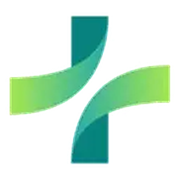
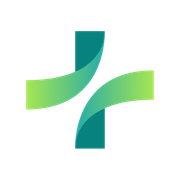
Landings: pulido visual, hero concreto, pie de página ordenado y fuentes propias
- Sin etiquetas sobre los títulos ni frases de relleno en el hero y las
  secciones (detalles que hacían ver la página genérica).
- Título principal y bajada que nombran el problema y el servicio concretos.
- Pie de página reordenado: marca con nombre, botón de WhatsApp, enlaces en
  columnas que entran en el teléfono y contacto con íconos.
- Fuentes alojadas en el sitio con preload (antes: Google Fonts, que
  bloqueaba el primer dibujo de la página).
- robots.txt sin la línea Content-Signal (Lighthouse la marcaba como inválida).
- Logos originales entregados por la responsable (donde correspondía),
  sin deformar, e ícono de Apple regenerado.
- Microinteracciones en botones, foco visible y entrada escalonada del hero.

Claude-Session: https://claude.ai/code/session_01FuLgnjHoiZTXHqrkcEnPGW

Changed region(s): [[0.0278, 0.0833, 0.6111, 0.6667], [0.3889, 0.3333, 0.9444, 0.9167]]

diff --git a/apps/web/src/components/home/contact-form.tsx b/apps/web/src/components/home/contact-form.tsx
@@ -35,5 +35,5 @@ export function ContactForm() {
   };
   const input = (name: keyof Fields, label: string, type = 'text', placeholder = '') => <div className="field"><label htmlFor={name}>{label}</label><input id={name} name={name} type={type} value={form[name]} placeholder={placeholder} min={type === 'number' ? 1 : undefined} aria-invalid={Boolean(errors[name])} aria-describedby={errors[name] ? `${name}-error` : undefined} onChange={e => update(name, e.target.value)} /><span className="field-error" id={`${name}-error`}>{errors[name]}</span></div>;
   const select = (name: 'busqueda' | 'destinatario' | 'actual', label: string) => <div className="field"><label htmlFor={name}>{label}</label><select id={name} name={name} value={form[name]} aria-invalid={Boolean(errors[name])} aria-describedby={errors[name] ? `${name}-error` : undefined} onChange={e => update(name,e.target.value)}><option value="" disabled>Seleccioná una opción</option>{options[name].map(option => <option value={option} key={option}>{option}</option>)}</select><span className="field-error" id={`${name}-error`}>{errors[name]}</span></div>;
-  return <section className="form-section section-pad" id="contacto"><div className="container form-layout"><div className="form-intro reveal"><p className="eyebrow">Empecemos por vos</p><h2>Contanos qué cobertura <em>estás buscando.</em></h2><p>Completá algunos datos y podremos orientarte según tu situación.</p><div className="form-aside"><span className="aside-rule"/><p>Elegir una cobertura médica no tiene por qué ser complicado. Estamos para ayudarte a dar el primer paso.</p></div></div><div className="form-panel reveal">{success ? <div className="form-success" role="status"><CheckCircle2 size={40} strokeWidth={1.5}/><h3>Gracias por contactarnos.</h3><p>Recibimos tu consulta y podremos orientarte sobre las opciones disponibles.</p><button type="button" className="underlined-link" onClick={() => { setSuccess(false); setForm(initial); }}>Hacer otra consulta <ArrowUpRight size={18}/></button></div> : <form onSubmit={submit} noValidate><div className="form-row">{input('nombre','Nombre')}{input('apellido','Apellido')}</div><div className="form-row">{input('telefono','Número de teléfono','tel')}{input('email','Email','email')}</div>{select('busqueda','¿Qué estás buscando?')}{select('destinatario','¿Para quién es la cobertura?')}<div className="form-row">{input('personas','¿Cuántas personas necesitan cobertura?','number')}{select('actual','¿Ya tenés una cobertura actualmente?')}</div><div className="field"><label htmlFor="detalle">Contanos brevemente qué estás buscando <span className="optional">(opcional)</span></label><textarea id="detalle" name="detalle" rows={4} value={form.detalle} onChange={e => update('detalle',e.target.value)} placeholder="Por ejemplo: quiero cambiarme de prepaga, buscar una cobertura para mi familia o conocer otras opciones." /></div>{sendError && <p className="field-error" role="alert">No pudimos enviar tu consulta. Intentá nuevamente o escribinos por WhatsApp.</p>}<button className="button button-dark form-submit" type="submit">Quiero recibir asesoramiento <ArrowUpRight size={18}/></button></form>}<div className="form-other"><span>También podés consultarnos directamente por WhatsApp.</span><WhatsAppAction className="underlined-link" message="Hola, prefiero hacer la consulta por WhatsApp: quiero comparar coberturas." /></div></div></div></section>;
+  return <section className="form-section section-pad" id="contacto"><div className="container form-layout"><div className="form-intro reveal"><h2>Contanos qué cobertura <em>estás buscando.</em></h2><p>Completá algunos datos y podremos orientarte según tu situación.</p></div><div className="form-panel reveal">{success ? <div className="form-success" role="status"><CheckCircle2 size={40} strokeWidth={1.5}/><h3>Gracias por contactarnos.</h3><p>Recibimos tu consulta y podremos orientarte sobre las opciones disponibles.</p><button type="button" className="underlined-link" onClick={() => { setSuccess(false); setForm(initial); }}>Hacer otra consulta <ArrowUpRight size={18}/></button></div> : <form onSubmit={submit} noValidate><div className="form-row">{input('nombre','Nombre')}{input('apellido','Apellido')}</div><div className="form-row">{input('telefono','Número de teléfono','tel')}{input('email','Email','email')}</div>{select('busqueda','¿Qué estás buscando?')}{select('destinatario','¿Para quién es la cobertura?')}<div className="form-row">{input('personas','¿Cuántas personas necesitan cobertura?','number')}{select('actual','¿Ya tenés una cobertura actualmente?')}</div><div className="field"><label htmlFor="detalle">Contanos brevemente qué estás buscando <span className="optional">(opcional)</span></label><textarea id="detalle" name="detalle" rows={4} value={form.detalle} onChange={e => update('detalle',e.target.value)} placeholder="Por ejemplo: quiero cambiarme de prepaga, buscar una cobertura para mi familia o conocer otras opciones." /></div>{sendError && <p className="field-error" role="alert">No pudimos enviar tu consulta. Intentá nuevamente o escribinos por WhatsApp.</p>}<button className="button button-dark form-submit" type="submit">Quiero recibir asesoramiento <ArrowUpRight size={18}/></button></form>}<div className="form-other"><span>También podés consultarnos directamente por WhatsApp.</span><WhatsAppAction className="underlined-link" message="Hola, prefiero hacer la consulta por WhatsApp: quiero comparar coberturas." /></div></div></div></section>;
 }

diff --git a/apps/web/src/components/home/value.tsx b/apps/web/src/components/home/value.tsx
@@ -8,5 +8,5 @@ const benefits = [
   { icon: UsersRound, title: 'Personalización', text: 'Buscamos alternativas teniendo en cuenta tus necesidades y las de tu grupo familiar.' },
 ];
 export function Value() {
-  return <><section className="value-section section-pad"><div className="container"><div className="value-top reveal"><p className="eyebrow">Elegir con confianza</p><h2>Encontrá opciones de cobertura <em>en un solo lugar.</em></h2><p>Cientos de prestadoras y opciones para comparar. Te acompañamos para que puedas conocer alternativas con información más clara.</p></div><div className="value-bottom"><div className="value-mark"><ShieldPlus size={32} strokeWidth={1.25}/><span>Una búsqueda más simple,{' '}<br />una elección más informada.</span></div><div className="value-list"><span>Obras sociales</span><span>Prepagas</span><span>Coberturas individuales</span><span>Coberturas familiares</span><span>Asesoramiento personalizado</span></div></div></div></section><section className="benefits-section section-pad"><div className="container"><div className="section-heading reveal"><p className="eyebrow">Por qué elegirnos</p><h2>Más opciones. Más información.{' '}<br /><em>Una decisión más simple.</em></h2></div><div className="benefit-grid">{benefits.map(({ icon: Icon, title, text }) => <article className="benefit reveal" key={title}><Icon size={28} strokeWidth={1.4}/><h3>{title}</h3><p>{text}</p></article>)}</div><div className="benefit-tail"><p>Estamos para ayudarte a encontrar un camino más claro.</p><WhatsAppAction className="underlined-link" /></div></div></section><section className="coverage-section section-pad" id="coberturas"><div className="container coverage-layout"><div className="reveal"><p className="eyebrow">Coberturas</p><h2>Encontrá la cobertura que <em>necesitás.</em></h2><p className="section-lead">Contanos qué estás buscando y te orientamos entre las alternativas disponibles.</p><a href="#contacto" className="button button-dark">Quiero asesorarme <ArrowUpRight size={18}/></a></div><div className="coverage-list reveal">{['Obras sociales','Prepagas','Coberturas individuales','Coberturas familiares'].map((item, index) => <a href="#contacto" key={item}><span className="coverage-index">0{index + 1}</span><span>{item}</span><ArrowUpRight size={20} strokeWidth={1.5}/></a>)}</div></div></section></>;
+  return <><section className="value-section section-pad"><div className="container"><div className="value-top reveal"><h2>Encontrá opciones de cobertura <em>en un solo lugar.</em></h2><p>Te acompañamos a comparar alternativas con información clara: qué cubre cada plan, qué cartilla tiene cerca tuyo y qué pasa con tus aportes.</p></div><div className="value-bottom"><div className="value-mark"><ShieldPlus size={32} strokeWidth={1.25}/><span>Una búsqueda más simple,{' '}<br />una elección más informada.</span></div><div className="value-list"><span>Obras sociales</span><span>Prepagas</span><span>Coberturas individuales</span><span>Coberturas familiares</span><span>Asesoramiento personalizado</span></div></div></div></section><section className="benefits-section section-pad"><div className="container"><div className="section-heading reveal"><h2>Más opciones. Más información.{' '}<br /><em>Una decisión más simple.</em></h2></div><div className="benefit-grid">{benefits.map(({ icon: Icon, title, text }) => <article className="benefit reveal" key={title}><Icon size={28} strokeWidth={1.4}/><h3>{title}</h3><p>{text}</p></article>)}</div><div className="benefit-tail"><WhatsAppAction className="underlined-link" /></div></div></section><section className="coverage-section section-pad" id="coberturas"><div className="container coverage-layout"><div className="reveal"><h2>Encontrá la cobertura que <em>necesitás.</em></h2><p className="section-lead">Contanos qué estás buscando y te orientamos entre las alternativas disponibles.</p><a href="#contacto" className="button button-dark">Quiero asesorarme <ArrowUpRight size={18}/></a></div><div className="coverage-list reveal">{['Obras sociales','Prepagas','Coberturas individuales','Coberturas familiares'].map((item, index) => <a href="#contacto" key={item}><span className="coverage-index">0{index + 1}</span><span>{item}</span><ArrowUpRight size={20} strokeWidth={1.5}/></a>)}</div></div></section></>;
 }

diff --git a/apps/web/src/components/home/story.tsx b/apps/web/src/components/home/story.tsx
@@ -1,4 +1,4 @@
 import { ArrowUpRight, Check, Search, MessagesSquare } from 'lucide-react';
 export function Story() {
-  return <><section className="steps-section section-pad" id="como-funciona"><div className="container"><div className="section-heading reveal"><p className="eyebrow">Cómo funciona</p><h2>Encontrar tu cobertura <em>puede ser más simple.</em></h2></div><div className="steps-grid">{[{icon:MessagesSquare,title:'Contanos qué necesitás.',text:'Compartí tu situación y lo que buscás en una cobertura.'},{icon:Search,title:'Analizamos las opciones disponibles.',text:'Exploramos alternativas de obras sociales y prepagas.'},{icon:Check,title:'Te ayudamos a conocer las alternativas.',text:'Recibí orientación para comparar y decidir con más claridad.'}].map(({icon:Icon,title,text})=><div className="step reveal" key={title}><div className="step-icon"><Icon size={22} strokeWidth={1.5}/></div><h3>{title}</h3><p>{text}</p></div>)}</div></div></section><section className="family-section"><div className="family-image"><img src="/img/asesoramiento-cobertura.webp" alt="Madre e hijo compartiendo un momento al aire libre" width="1024" height="768" loading="lazy"/></div><div className="family-content reveal"><p className="eyebrow">Para quienes más querés</p><h2>Una cobertura pensada para vos <em>y los tuyos.</em></h2><p>Si necesitás una cobertura para varias personas, podemos ayudarte a encontrar alternativas que contemplen las necesidades de tu grupo familiar.</p><a className="underlined-link" href="#contacto">Consultar opciones para mi familia <ArrowUpRight size={18}/></a></div></section><section className="savings-section section-pad"><div className="container savings-layout reveal"><div><p className="eyebrow">Elegir también es comparar</p><h2>¿Estás buscando una alternativa <em>más conveniente?</em></h2></div><div><p>Comparar distintas alternativas de cobertura puede ayudarte a conocer opciones, descuentos y beneficios disponibles según tu situación.</p><p>Conocé opciones y beneficios disponibles según tu situación.</p><a className="button button-dark" href="#contacto">Quiero conocer mis opciones <ArrowUpRight size={18}/></a></div></div></section></>;
+  return <><section className="steps-section section-pad" id="como-funciona"><div className="container"><div className="section-heading reveal"><h2>Encontrar tu cobertura <em>puede ser más simple.</em></h2></div><div className="steps-grid">{[{icon:MessagesSquare,title:'Contanos qué necesitás.',text:'Compartí tu situación y lo que buscás en una cobertura.'},{icon:Search,title:'Analizamos las opciones disponibles.',text:'Exploramos alternativas de obras sociales y prepagas.'},{icon:Check,title:'Te ayudamos a conocer las alternativas.',text:'Recibí orientación para comparar y decidir con más claridad.'}].map(({icon:Icon,title,text})=><div className="step reveal" key={title}><div className="step-icon"><Icon size={22} strokeWidth={1.5}/></div><h3>{title}</h3><p>{text}</p></div>)}</div></div></section><section className="family-section"><div className="family-image"><img src="/img/asesoramiento-cobertura.webp" alt="Madre e hijo compartiendo un momento al aire libre" width="1024" height="768" loading="lazy"/></div><div className="family-content reveal"><h2>Una cobertura pensada para vos <em>y los tuyos.</em></h2><p>Si necesitás una cobertura para varias personas, podemos ayudarte a encontrar alternativas que contemplen las necesidades de tu grupo familiar.</p><a className="underlined-link" href="#contacto">Consultar opciones para mi familia <ArrowUpRight size={18}/></a></div></section><section className="savings-section section-pad"><div className="container savings-layout reveal"><div><h2>¿Estás buscando una alternativa <em>más conveniente?</em></h2></div><div><p>Comparar distintas alternativas de cobertura puede ayudarte a conocer opciones, descuentos y beneficios disponibles según tu situación.</p><p>Conocé opciones y beneficios disponibles según tu situación.</p><a className="button button-dark" href="#contacto">Quiero conocer mis opciones <ArrowUpRight size={18}/></a></div></div></section></>;
 }

diff --git a/apps/web/src/styles/fuentes.css b/apps/web/src/styles/fuentes.css
@@ -1,0 +1,81 @@
+/* Fuentes alojadas en el propio sitio (antes: Google Fonts). Generado por fuentes.py. */
+@font-face {
+  font-family: 'Manrope';
+  font-style: normal;
+  font-weight: 400;
+  font-display: swap;
+  src: url('/fonts/manrope-normal-latin-ext-59b5f9.woff2') format('woff2');
+  unicode-range: U+0100-02BA, U+02BD-02C5, U+02C7-02CC, U+02CE-02D7, U+02DD-02FF, U+0304, U+0308, U+0329, U+1D00-1DBF, U+1E00-1E9F, U+1EF2-1EFF, U+2020, U+20A0-20AB, U+20AD-20C4, U+2113, U+2C60-2C7F, U+A720-A7FF;
+}
+@font-face {
+  font-family: 'Manrope';
+  font-style: normal;
+  font-weight: 400;
+  font-display: swap;
+  src: url('/fonts/manrope-normal-latin-58ee19.woff2') format('woff2');
+  unicode-range: U+0000-00FF, U+0131, U+0152-0153, U+02BB-02BC, U+02C6, U+02DA, U+02DC, U+0304, U+0308, U+0329, U+2000-206F, U+20AC, U+2122, U+2191, U+2193, U+2212, U+2215, U+FEFF, U+FFFD;
+}
+@font-face {
+  font-family: 'Manrope';
+  font-style: normal;
+  font-weight: 500;
+  font-display: swap;
+  src: url('/fonts/manrope-normal-latin-ext-59b5f9.woff2') format('woff2');
+  unicode-range: U+0100-02BA, U+02BD-02C5, U+02C7-02CC, U+02CE-02D7, U+02DD-02FF, U+0304, U+0308, U+0329, U+1D00-1DBF, U+1E00-1E9F, U+1EF2-1EFF, U+2020, U+20A0-20AB, U+20AD-20C4, U+2113, U+2C60-2C7F, U+A720-A7FF;
+}
+@font-face {
+  font-family: 'Manrope';
+  font-style: normal;
+  font-weight: 500;
+  font-display: swap;
+  src: url('/fonts/manrope-normal-latin-58ee19.woff2') format('woff2');
+  unicode-range: U+0000-00FF, U+0131, U+0152-0153, U+02BB-02BC, U+02C6, U+02DA, U+02DC, U+0304, U+0308, U+0329, U+2000-206F, U+20AC, U+2122, U+2191, U+2193, U+2212, U+2215, U+FEFF, U+FFFD;
+}
+@font-face {
+  font-family: 'Manrope';
+  font-style: normal;
+  font-weight: 600;
+  font-display: swap;
+  src: url('/fonts/manrope-normal-latin-ext-59b5f9.woff2') format('woff2');
+  unicode-range: U+0100-02BA, U+02BD-02C5, U+02C7-02CC, U+02CE-02D7, U+02DD-02FF, U+0304, U+0308, U+0329, U+1D00-1DBF, U+1E00-1E9F, U+1EF2-1EFF, U+2020, U+20A0-20AB, U+20AD-20C4, U+2113, U+2C60-2C7F, U+A720-A7FF;
+}
+@font-face {
+  font-family: 'Manrope';
+  font-style: normal;
+  font-weight: 600;
+  font-display: swap;
+  src: url('/fonts/manrope-normal-latin-58ee19.woff2') format('woff2');
+  unicode-range: U+0000-00FF, U+0131, U+0152-0153, U+02BB-02BC, U+02C6, U+02DA, U+02DC, U+0304, U+0308, U+0329, U+2000-206F, U+20AC, U+2122, U+2191, U+2193, U+2212, U+2215, U+FEFF, U+FFFD;
+}
+@font-face {
+  font-family: 'Manrope';
+  font-style: normal;
+  font-weight: 700;
+  font-display: swap;
+  src: url('/fonts/manrope-normal-latin-ext-59b5f9.woff2') format('woff2');
+  unicode-range: U+0100-02BA, U+02BD-02C5, U+02C7-02CC, U+02CE-02D7, U+02DD-02FF, U+0304, U+0308, U+0329, U+1D00-1DBF, U+1E00-1E9F, U+1EF2-1EFF, U+2020, U+20A0-20AB, U+20AD-20C4, U+2113, U+2C60-2C7F, U+A720-A7FF;
+}
+@font-face {
+  font-family: 'Manrope';
+  font-style: normal;
+  font-weight: 700;
+  font-display: swap;
+  src: url('/fonts/manrope-normal-latin-58ee19.woff2') format('woff2');
+  unicode-range: U+0000-00FF, U+0131, U+0152-0153, U+02BB-02BC, U+02C6, U+02DA, U+02DC, U+0304, U+0308, U+0329, U+2000-206F, U+20AC, U+2122, U+2191, U+2193, U+2212, U+2215, U+FEFF, U+FFFD;
+}
+@font-face {
+  font-family: 'Manrope';
+  font-style: normal;
+  font-weight: 800;
+  font-display: swap;
+  src: url('/fonts/manrope-normal-latin-ext-59b5f9.woff2') format('woff2');
+  unicode-range: U+0100-02BA, U+02BD-02C5, U+02C7-02CC, U+02CE-02D7, U+02DD-02FF, U+0304, U+0308, U+0329, U+1D00-1DBF, U+1E00-1E9F, U+1EF2-1EFF, U+2020, U+20A0-20AB, U+20AD-20C4, U+2113, U+2C60-2C7F, U+A720-A7FF;
+}
+@font-face {
+  font-family: 'Manrope';
+  font-style: normal;
+  font-weight: 800;
+  font-display: swap;
+  src: url('/fonts/manrope-normal-latin-58ee19.woff2') format('woff2');
+  unicode-range: U+0000-00FF, U+0131, U+0152-0153, U+02BB-02BC, U+02C6, U+02DA, U+02DC, U+0304, U+0308, U+0329, U+2000-206F, U+20AC, U+2122, U+2191, U+2193, U+2212, U+2215, U+FEFF, U+FFFD;
+}

diff --git a/apps/web/src/components/site-footer.tsx b/apps/web/src/components/site-footer.tsx
@@ -1,7 +1,42 @@
 import { Link } from 'react-router';
+import { Facebook, Instagram, Mail, Phone } from 'lucide-react';
 import { WhatsAppAction } from '@/components/whatsapp-action';
-import { EMAIL, FIRM_NAME, LOGO_URL, PHONE, PHONE_URL, SOCIAL_LINKS } from '@/constants/brand';
+import { EMAIL, FACEBOOK_URL, FIRM_NAME, INSTAGRAM_HANDLE, INSTAGRAM_URL, LOGO_URL, PHONE, PHONE_URL } from '@/constants/brand';
 
 export function SiteFooter() {
-  return <footer className="site-footer"><div className="container footer-main"><div className="footer-brand"><a href="/#inicio" className="brand"><img src={LOGO_URL} alt={`Logo de ${FIRM_NAME}`} width="50" height="50" loading="lazy"/><span>Compara <strong>Tu Obra Social</strong></span></a><p>Opciones de obras sociales y prepagas con asesoramiento personalizado en CABA y el AMBA.</p></div><div className="footer-links"><span>Explorá</span><a href="/#inicio">Inicio</a><Link to="/prepagas">Prepagas</Link><Link to="/obras-sociales">Obras sociales</Link><Link to="/guias/cotizador-de-aportes">Cotizador de aportes</Link><Link to="/guias">Guías</Link><a href="/#preguntas">Preguntas frecuentes</a></div><div className="footer-contact"><span>Hablemos</span><p>Tu próxima cobertura empieza con una conversación.</p><WhatsAppAction className="underlined-link" />{PHONE_URL && <a href={PHONE_URL}>{PHONE}</a>}{EMAIL && <a href={`mailto:${EMAIL}`}>{EMAIL}</a>}{SOCIAL_LINKS.map(link => <a key={link.url} href={link.url} target="_blank" rel="noopener noreferrer">{link.label}</a>)}</div></div><div className="container footer-bottom"><span>© {new Date().getFullYear()} {FIRM_NAME}.</span><span>Una elección con más claridad.</span></div></footer>;
+  return (
+    <footer className="site-footer">
+      <div className="container footer-main">
+        <div className="footer-brand">
+          <a href="/#inicio" className="brand footer-logo"><img src={LOGO_URL} alt="" width="240" height="222" loading="lazy" /><span>Compara <strong>Tu Obra Social</strong></span></a>
+          <p>Prepagas y obras sociales comparadas con un asesor, en CABA y el AMBA.</p>
+          <WhatsAppAction className="footer-cta" label="Escribinos por WhatsApp" />
+        </div>
+        <nav className="footer-links" aria-label="Coberturas">
+          <h3>Coberturas</h3>
+          <Link to="/prepagas">Prepagas</Link>
+          <Link to="/obras-sociales">Obras sociales</Link>
+          <Link to="/guias/cotizador-de-aportes">Cotizador de aportes</Link>
+          <Link to="/guias">Guías</Link>
+        </nav>
+        <nav className="footer-links" aria-label="Ayuda">
+          <h3>Ayuda</h3>
+          <a href="/#como-funciona">Cómo funciona</a>
+          <a href="/#preguntas">Preguntas frecuentes</a>
+          <a href="/#contacto">Hacer una consulta</a>
+        </nav>
+        <div className="footer-contact">
+          <h3>Contacto</h3>
+          {PHONE_URL && <a href={PHONE_URL}><Phone size={16} strokeWidth={1.6} aria-hidden="true" /> {PHONE}</a>}
+          {EMAIL && <a href={`mailto:${EMAIL}`}><Mail size={16} strokeWidth={1.6} aria-hidden="true" /> {EMAIL}</a>}
+          {INSTAGRAM_URL && <a href={INSTAGRAM_URL} target="_blank" rel="noopener noreferrer"><Instagram size={16} strokeWidth={1.6} aria-hidden="true" /> {INSTAGRAM_HANDLE || 'Instagram'}</a>}
+          {FACEBOOK_URL && <a href={FACEBOOK_URL} target="_blank" rel="noopener noreferrer"><Facebook size={16} strokeWidth={1.6} aria-hidden="true" /> Facebook</a>}
+        </div>
+      </div>
+      <div className="container footer-bottom">
+        <span>© {new Date().getFullYear()} {FIRM_NAME}</span>
+        <a href="#inicio" className="footer-top">Volver arriba ↑</a>
+      </div>
+    </footer>
+  );
 }

diff --git a/apps/web/src/styles/pulido.css b/apps/web/src/styles/pulido.css
@@ -1,0 +1,47 @@
+/* Pulido visual del 09/11/2026: sin etiquetas sobre los títulos, hero concreto,
+   pie de página ordenado, microinteracciones y entrada escalonada del hero. */
+
+::selection { background: #daf1de; color: #0b2b26; }
+
+/* Hero: entrada escalonada */
+.hero-copy > * { animation: entrada .7s cubic-bezier(.2,.7,.2,1) both; }
+.hero-copy > :nth-child(2) { animation-delay: .08s; }
+.hero-copy > :nth-child(3) { animation-delay: .16s; }
+@keyframes entrada { from { opacity: 0; transform: translateY(14px); } to { opacity: 1; transform: none; } }
+.hero-visual img { transition: transform 1.2s cubic-bezier(.2,.7,.2,1); }
+.hero-visual:hover img { transform: scale(1.02); }
+
+/* Botones y foco */
+.button { transition: transform .2s ease, box-shadow .2s ease, background-color .2s ease; }
+.button:hover { transform: translateY(-1px); box-shadow: 0 10px 24px rgba(11, 43, 38, .14); }
+a:focus-visible, button:focus-visible, summary:focus-visible { outline: 2px solid #235347; outline-offset: 3px; border-radius: 4px; }
+
+/* Pie de página */
+.site-footer { background: #f5faf6; border-top: 1px solid #d5e6da; padding-top: 80px; }
+.footer-main { grid-template-columns: 1.5fr .9fr .9fr 1.5fr; gap: 48px; padding-bottom: 64px; }
+.footer-logo img { width: 54px; height: auto; }
+.footer-logo span { font-size: 16px; }
+.footer-brand p { max-width: 330px; font-size: 15px; line-height: 1.65; color: #3f5f55; margin: 22px 0 24px; }
+.footer-cta { display: inline-flex; align-items: center; gap: 10px; padding: 13px 22px; border-radius: 999px; background: #0b2b26; color: #daf1de; font-size: 14px; font-weight: 700; transition: transform .2s ease, background-color .2s ease; }
+.footer-cta:hover { background: #235347; transform: translateY(-1px); }
+.footer-links, .footer-contact { gap: 4px; font-size: 15px; }
+.footer-links h3, .footer-contact h3 { font-size: 15px; font-weight: 800; color: #0b2b26; margin: 0 0 12px; }
+.footer-links a, .footer-contact a { display: inline-flex; align-items: center; gap: 12px; min-height: 36px; color: #2f4a42; }
+.footer-links a:hover, .footer-contact a:hover { color: #0b2b26; }
+.footer-contact a { white-space: nowrap; }
+.footer-contact svg { color: #4e856b; flex: none; }
+.footer-bottom { font-size: 13px; color: #587268; padding-right: 76px; }
+.footer-top:hover { color: #0b2b26; }
+
+@media (max-width: 640px) {
+  .footer-main { grid-template-columns: 1fr 1fr; gap: 40px 22px; padding-bottom: 44px; }
+  .footer-brand, .footer-contact { grid-column: 1 / -1; }
+  .footer-links a, .footer-contact a { min-height: 42px; }
+  .footer-links a { white-space: nowrap; font-size: 14px; }
+  .footer-contact a { white-space: normal; overflow-wrap: anywhere; }
+  .footer-bottom { flex-direction: column; align-items: flex-start; gap: 6px; font-size: 12px; }
+}
+
+/* Logo original (proporción 1,08): sin forzar un cuadrado */
+.brand img { width: 46px; height: auto; object-fit: contain; }
+@media (max-width: 640px) { .brand img { width: 40px; height: auto; } }

diff --git a/apps/web/src/components/home/faq.tsx b/apps/web/src/components/home/faq.tsx
@@ -9,5 +9,5 @@ const faqs = [
   ['¿El asesoramiento tiene algún costo?', 'Esta información estará disponible próximamente. Consultanos para conocer las condiciones del asesoramiento.'],
 ];
 export function Faq() {
-  return <><section className="faq-section section-pad" id="preguntas"><div className="container faq-layout"><div className="reveal"><p className="eyebrow">Preguntas frecuentes</p><h2>Respuestas claras para <em>elegir mejor.</em></h2><p className="section-lead">Si tenés otra pregunta, estamos para escucharte.</p><WhatsAppAction className="underlined-link" /></div><div className="faq-items reveal">{faqs.map(([question,answer])=><details key={question}><summary><span>{question}</span><Plus size={20} strokeWidth={1.6}/></summary><p>{answer}</p></details>)}</div></div></section><section className="final-cta"><div className="container final-cta-inner reveal"><div><p className="eyebrow">El próximo paso es más simple de lo que pensás</p><h2>Encontrá una cobertura que <em>se adapte a vos.</em></h2><p>Contanos qué necesitás y te ayudamos a conocer las alternativas disponibles.</p></div><div className="final-actions"><a className="button button-light" href="#contacto">Quiero asesorarme <ArrowUpRight size={18}/></a><WhatsAppAction className="button button-whatsapp" message="Hola, quiero que me ayuden a encontrar una cobertura que se adapte a mí." /></div></div></section></>;
+  return <><section className="faq-section section-pad" id="preguntas"><div className="container faq-layout"><div className="reveal"><h2>Respuestas claras para <em>elegir mejor.</em></h2><p className="section-lead">Si tenés otra pregunta, estamos para escucharte.</p><WhatsAppAction className="underlined-link" /></div><div className="faq-items reveal">{faqs.map(([question,answer])=><details key={question}><summary><span>{question}</span><Plus size={20} strokeWidth={1.6}/></summary><p>{answer}</p></details>)}</div></div></section><section className="final-cta"><div className="container final-cta-inner reveal"><div><h2>Encontrá una cobertura que <em>se adapte a vos.</em></h2><p>Contanos qué necesitás y te ayudamos a conocer las alternativas disponibles.</p></div><div className="final-actions"><a className="button button-light" href="#contacto">Quiero asesorarme <ArrowUpRight size={18}/></a><WhatsAppAction className="button button-whatsapp" message="Hola, quiero que me ayuden a encontrar una cobertura que se adapte a mí." /></div></div></section></>;
 }

diff --git a/apps/web/src/components/home/hero.tsx b/apps/web/src/components/home/hero.tsx
@@ -2,5 +2,5 @@ import { ArrowUpRight } from 'lucide-react';
 import { WhatsAppAction } from '@/components/whatsapp-action';
 
 export function Hero() {
-  return <section className="hero" id="inicio"><div className="hero-glow" aria-hidden="true" /><div className="hero-inner"><div className="hero-copy reveal"><p className="eyebrow"><span className="eyebrow-line" /> Tu bienestar empieza con una buena elección</p><h1>Encontrá la cobertura médica que mejor se adapta a vos<span className="period">.</span></h1><p className="hero-description">Comparamos opciones de obras sociales y prepagas para ayudarte a encontrar una cobertura acorde a tus necesidades y las de tu familia.</p><div className="hero-buttons"><a className="button button-dark" href="#contacto">Quiero encontrar mi cobertura <ArrowUpRight size={19} /></a><WhatsAppAction className="button button-whatsapp" message="Hola, vi la web y quiero comparar coberturas para encontrar la mejor opción." /></div><p className="hero-note">Obras sociales y prepagas en un solo lugar.</p></div><div className="hero-visual reveal"><img src="/img/familia-cobertura.webp" alt="Familia caminando junta por un parque arbolado" width="1024" height="768" fetchPriority="high" /><div className="hero-visual-caption"><span>Más claridad para elegir.</span><span>Más tranquilidad para vivir.</span></div></div></div><div className="hero-bottom"><span>Una decisión importante, acompañada de principio a fin.</span><a href="#coberturas">Explorar coberturas <span aria-hidden="true">↓</span></a></div></section>;
+  return <section className="hero" id="inicio"><div className="hero-glow" aria-hidden="true" /><div className="hero-inner"><div className="hero-copy reveal"><h1>Compará prepagas y obras sociales con un asesor<span className="period">.</span></h1><p className="hero-description">Te mostramos las opciones según tu edad, tu zona, tu familia y tus aportes, para que elijas sabiendo qué cubre cada plan.</p><div className="hero-buttons"><a className="button button-dark" href="#contacto">Quiero encontrar mi cobertura <ArrowUpRight size={19} /></a><WhatsAppAction className="button button-whatsapp" message="Hola, vi la web y quiero comparar coberturas para encontrar la mejor opción." /></div></div><div className="hero-visual reveal"><img src="/img/familia-cobertura.webp" alt="Familia caminando junta por un parque arbolado" width="1024" height="768" fetchPriority="high" /></div></div></section>;
 }

diff --git a/apps/web/src/root.tsx b/apps/web/src/root.tsx
@@ -13,6 +13,9 @@ import stylesheet from '@/index.css?url';
 import articulosStylesheet from '@/styles/articulos.css?url';
 // Ajustes del 21/10 (CTA por sección, WhatsApp, nombre de la firma). Va último para prevalecer.
 import ajustesStylesheet from '@/styles/ajustes.css?url';
+// Fuentes propias (sin Google Fonts) y pulido visual del 09/11. Van al final para prevalecer.
+import fuentesStylesheet from '@/styles/fuentes.css?url';
+import pulidoStylesheet from '@/styles/pulido.css?url';
 import { publicOrigin } from '@/lib/site-origin.server';
 import { VERIFICATION } from '@/constants/brand';
 import { HorizonsPreviewScripts } from './horizons-preview-scripts';
@@ -39,18 +42,11 @@ export const links: Route.LinksFunction = () => [
 	{ rel: 'stylesheet', href: stylesheet },
 	{ rel: 'stylesheet', href: articulosStylesheet },
 	{ rel: 'stylesheet', href: ajustesStylesheet },
+	{ rel: 'preload', href: '/fonts/manrope-normal-latin-58ee19.woff2', as: 'font', type: 'font/woff2', crossOrigin: 'anonymous' },
+	{ rel: 'stylesheet', href: fuentesStylesheet },
+	{ rel: 'stylesheet', href: pulidoStylesheet },
 	{ rel: 'icon', href: logo, type: 'image/png' },
 	{ rel: 'apple-touch-icon', href: '/apple-touch-icon.png' },
-	{ rel: 'preconnect', href: 'https://fonts.googleapis.com' },
-	{
-		rel: 'preconnect',
-		href: 'https://fonts.gstatic.com',
-		crossOrigin: 'anonymous',
-	},
-	{
-		rel: 'stylesheet',
-		href: 'https://fonts.googleapis.com/css2?family=Manrope:wght@400;500;600;700;800&display=swap',
-	},
 ];
 
 /**

diff --git a/apps/web/src/components/site-header.tsx b/apps/web/src/components/site-header.tsx
@@ -38,7 +38,7 @@ export function SiteHeader() {
   };
   return <header className={`site-header ${hidden ? 'site-header--hidden' : ''}`}>
     <div className="header-inner">
-      <a className="brand" href="/#inicio" aria-label={`${FIRM_NAME} — inicio`} onClick={() => setOpen(false)}><img src={LOGO_URL} alt={`Logo de ${FIRM_NAME}`} width="48" height="48" /><span>Compara <strong>Tu Obra Social</strong></span></a>
+      <a className="brand" href="/#inicio" aria-label={`${FIRM_NAME} — inicio`} onClick={() => setOpen(false)}><img src={LOGO_URL} alt="" width="52" height="48" /><span>Compara <strong>Tu Obra Social</strong></span></a>
       <nav className="desktop-nav" aria-label="Navegación principal">{links.map(link => renderLink(link))}</nav>
       <div className="header-actions"><WhatsAppAction className="header-whatsapp" label="Consultar por WhatsApp" /><button className="menu-toggle" type="button" aria-label={open ? 'Cerrar menú' : 'Abrir menú'} aria-expanded={open} aria-controls="mobile-nav" onClick={() => { setOpen(!open); setHidden(false); }}>{open ? <X size={23} /> : <Menu size={23} />}</button></div>
     </div>

diff --git a/apps/web/src/routes/robots.txt.ts b/apps/web/src/routes/robots.txt.ts
@@ -65,25 +65,12 @@ const AI_TRAINING_AGENTS = [
 	'Bytespider',
 ];
 
-/**
- * Content signals (contentsignals.org) state what crawlers may do with the
- * content once fetched: appear in search results, ground an AI answer, or train
- * a model. Search and AI answers are allowed because they bring readers back;
- * training is not, which is the default every publisher starts from.
- *
- * A named group replaces the wildcard group for that agent rather than adding
- * to it, so the signal is repeated inside each one — otherwise the agents it is
- * aimed at are the only ones that never read it.
- */
-const CONTENT_SIGNAL = 'Content-Signal: search=yes, ai-input=yes, ai-train=no';
-
 function publishedRules(origin: string): string[] {
 	return [
 		'User-agent: *',
-		CONTENT_SIGNAL,
 		'Allow: /',
 		'',
-		...AI_ANSWER_AGENTS.flatMap(agent => [`User-agent: ${agent}`, CONTENT_SIGNAL, 'Allow: /', '']),
+		...AI_ANSWER_AGENTS.flatMap(agent => [`User-agent: ${agent}`, 'Allow: /', '']),
 		...AI_TRAINING_AGENTS.flatMap(agent => [`User-agent: ${agent}`, 'Disallow: /', '']),
 		`Sitemap: ${origin}/sitemap.xml`,
 	];

diff --git a/apps/web/src/components/articulo/doc-hero.tsx b/apps/web/src/components/articulo/doc-hero.tsx
@@ -20,7 +20,7 @@ function WithPeriod({ text }: { text: string }) {
   return text.endsWith('.') ? <>{text.slice(0, -1)}<span className="period">.</span></> : <>{text}</>;
 }
 
-export function DocHero({ label, h1, h1Em, lead, breadcrumbs, updated, origen, whatsappMessage }: Props) {
+export function DocHero({ h1, h1Em, lead, breadcrumbs, updated, origen, whatsappMessage }: Props) {
   return (
     <section className="doc-hero">
       <div className="container">
@@ -34,7 +34,7 @@ export function DocHero({ label, h1, h1Em, lead, breadcrumbs, updated, origen, w
               ))}
             </ol>
           </nav>
-          <p className="eyebrow"><span className="eyebrow-line" /> {label}</p>
+          
           <h1>{h1Em ? <>{h1} <em><WithPeriod text={h1Em} /></em></> : <WithPeriod text={h1} />}</h1>
           <p className="doc-lead">{lead}</p>
           <div className="hero-buttons">
